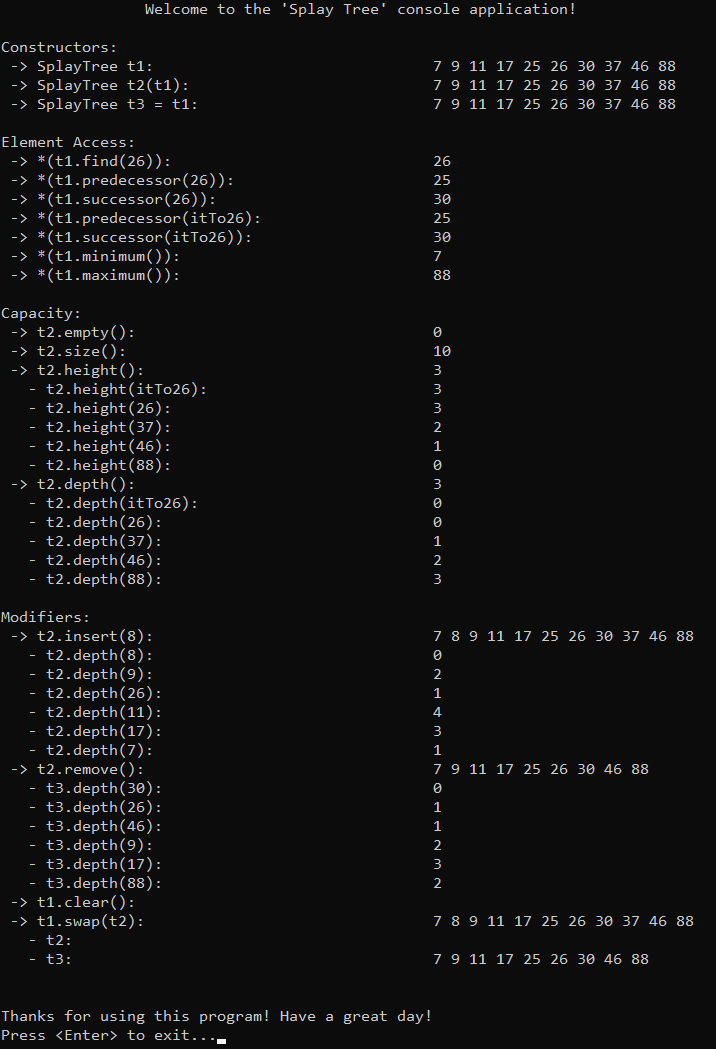
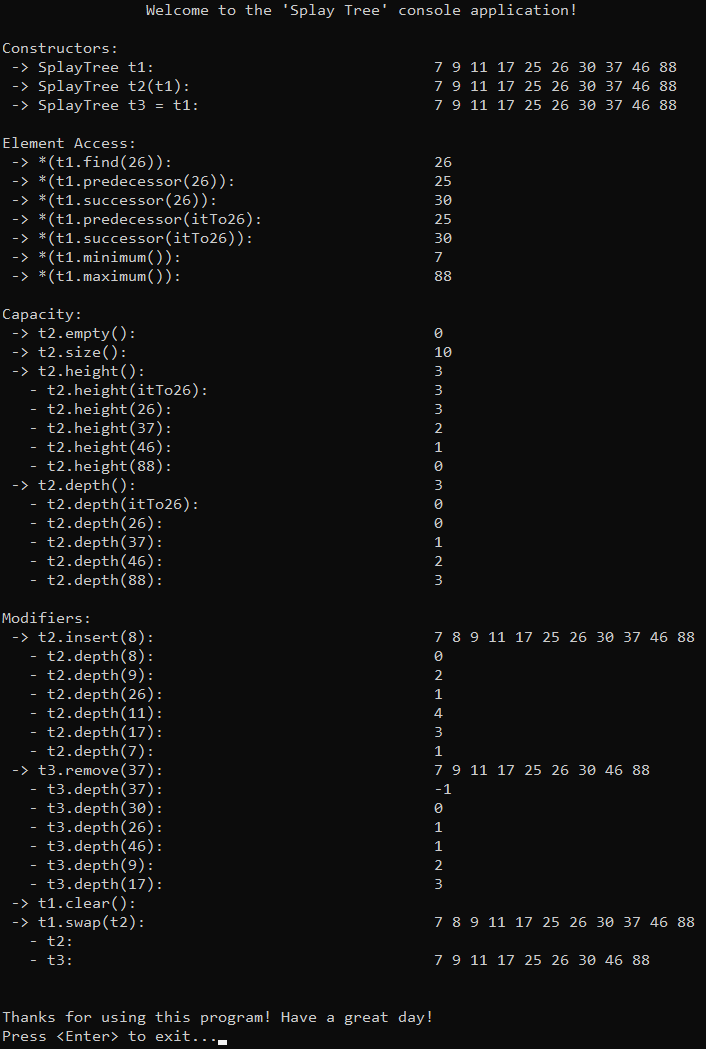
Fix 'Splay Tree' code + docs: remove() from 0-1-2 to left+right.

diff --git a/DataStructures/Tree/SplayTree/Source/Main.cpp b/DataStructures/Tree/SplayTree/Source/Main.cpp
@@ -85,15 +85,15 @@ int main() {
 	std::cout << "   - t2.depth(11):\t\t\t\t" << t2.depth(11) << std::endl; // deep subtree node
 	std::cout << "   - t2.depth(17):\t\t\t\t" << t2.depth(17) << std::endl; // part of splaying path
 	std::cout << "   - t2.depth(7):\t\t\t\t" << t2.depth(7) << std::endl;   // static node
-	std::cout << " -> t2.remove(): \t\t\t\t";
+	std::cout << " -> t3.remove(37): \t\t\t\t";
 	t3.remove(37);
 	printTree(t3);
+	std::cout << "   - t3.depth(37):\t\t\t\t" << t3.depth(37) << std::endl; // removed
 	std::cout << "   - t3.depth(30):\t\t\t\t" << t3.depth(30) << std::endl; // new root
 	std::cout << "   - t3.depth(26):\t\t\t\t" << t3.depth(26) << std::endl; // child of deleted node
 	std::cout << "   - t3.depth(46):\t\t\t\t" << t3.depth(46) << std::endl; // reattached to new root
 	std::cout << "   - t3.depth(9):\t\t\t\t" << t3.depth(9) << std::endl;   // checks stability of left structure
 	std::cout << "   - t3.depth(17):\t\t\t\t" << t3.depth(17) << std::endl; // confirms middle subtree preserved
-	std::cout << "   - t3.depth(88):\t\t\t\t" << t3.depth(88) << std::endl; // ensures far-right is still reachable
 	std::cout << " -> t1.clear(): \t\t\t\t\t";
 	t1.clear();
 	printTree(t1);

diff --git a/DataStructures/Tree/SplayTree/SplayTree.md b/DataStructures/Tree/SplayTree/SplayTree.md
@@ -108,10 +108,11 @@ When working with Splay Trees, it's important to note that there is no universal
 
 **Modifiers**:
 - `insert(val)` — inserts a new node with the specified value into the tree, maintaining the BST ordering property and splaying the new node to the root to preserve the access-based structure.
-- `erase(val)` — removes the node with the specified value from the tree, maintaining the BST ordering property and splaying either the parent or a replacement node to the root to restore the access-based structure.
-  - if the node has no children (leaf), simply remove the node;
-  - if the node has one child, replace the node with its child;
-  - if the node has two children, it is replaced with its in-order successor or predecessor, depending on the design decision;
+- `erase(val)` — removes the node with the specified value by first splaying it to the root, then replacing the root with either the right subtree or the splayed maximum of the left subtree (with the right subtree attached), maintaining the BST ordering and preserving the access-based structure.
+  - does nothing if the value is not found in the tree;
+  - if the left subtree is empty, the right subtree becomes the new root;
+  - if the left subtree is not empty, its maximum node is splayed and becomes the new root, with the right subtree attached.
+ decision;
 - `clear()` — removes all nodes from the tree, resetting it to its initial state.
 - `swap(other)` — exchanges the contents of the current tree with another tree, avoiding expensive deep copies.
   - assigning a tree to itself has no effect, as the function exits early without performing any operations.
@@ -444,7 +445,7 @@ Understanding how to analyze the particular container is crucial for optimizing 
 - **Deletion:**
    - **Deletion** $O(\log n)$ — while the actual pointer adjustment and clean up during deletion is $O(1)$, the operation's overall complexity depends on three factors:
      - **Traversal Cost** — locating the target node requires walking down the tree. Since splay trees do not enforce balance, this may take up to $O(n)$ in the worst case. However, frequently accessed elements tend to stay near the root, reducing average lookup depth over time.
-     - **SplayCost** — once found, the target node is moved to the root through a sequence of rotations. Each step is $O(1)$, and the number of steps equals the node’s depth. Over a sequence of operations, the amortized time becomes $O(\log n)$.
+     - **Splay Cost** — once found, the target node is moved to the root through a sequence of rotations. Each step is $O(1)$, and the number of steps equals the node’s depth. Over a sequence of operations, the amortized time becomes $O(\log n)$.
      - **Combining Cost** — after the root is deleted, the remaining left and right subtrees must be joined. This requires finding the maximum node in the left subtree (if it exists), splaying it to the top, and attaching the right subtree. Though worst-case cost is $O(n)$, this process maintains the amortized $O(\log n)$ guarantee over time.
 - **Other** — while additional operations exist, they are generally not considered core functionalities for container selection.
 
@@ -515,6 +516,7 @@ Despite the interesting idea, splay trees didn’t gain real-world popularity. T
 &#127760; **Web-Pages:**  
 - [Splay tree](https://en.wikipedia.org/wiki/Splay_tree) (Wikipedia)
 - [Self-Adjusting Binary Search Trees](https://www.cs.cmu.edu/~sleator/papers/self-adjusting.pdf) (Research Paper)
+- [Visualization of splay tree](https://www.cs.usfca.edu/~galles/visualization/SplayTree.html)
 
 
 
